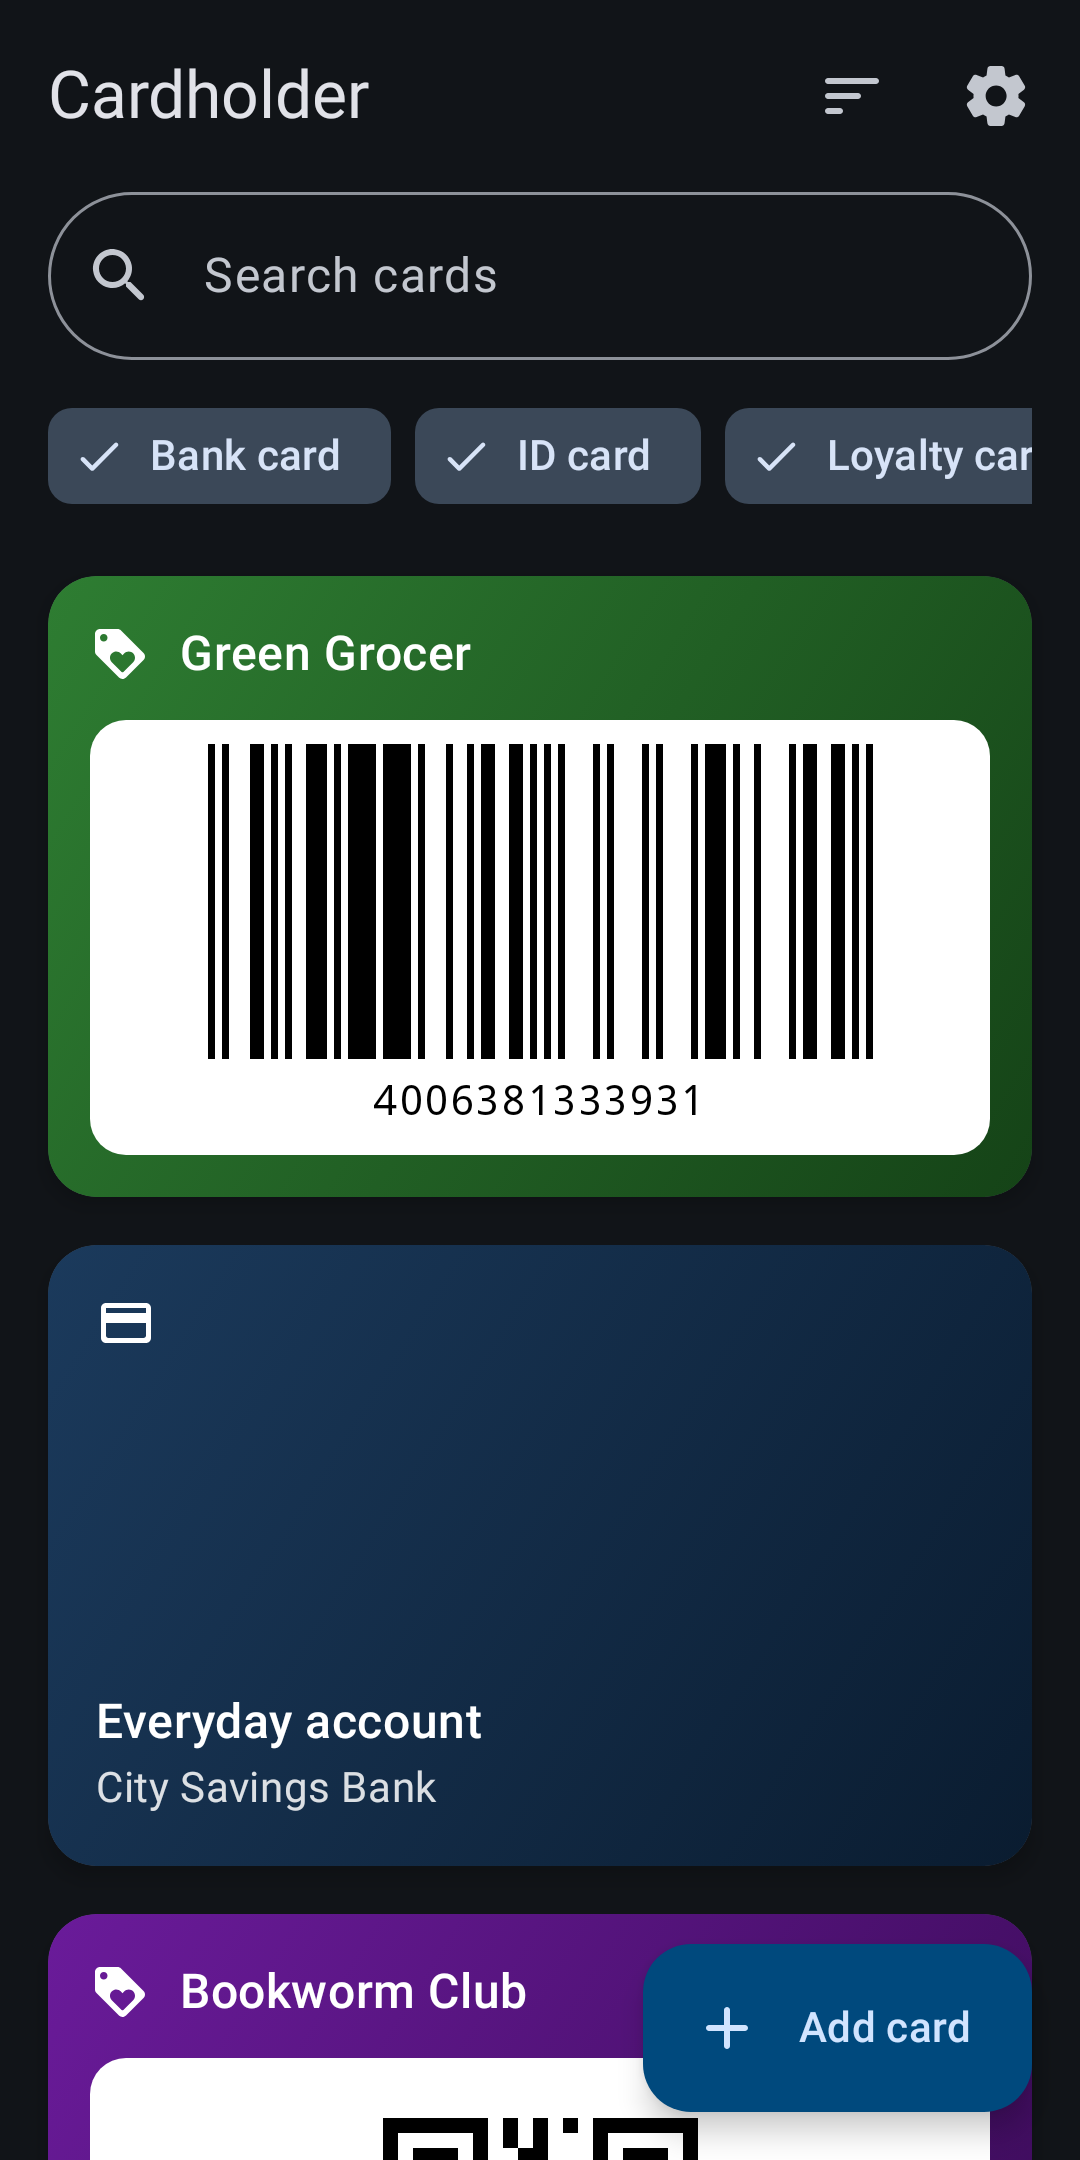
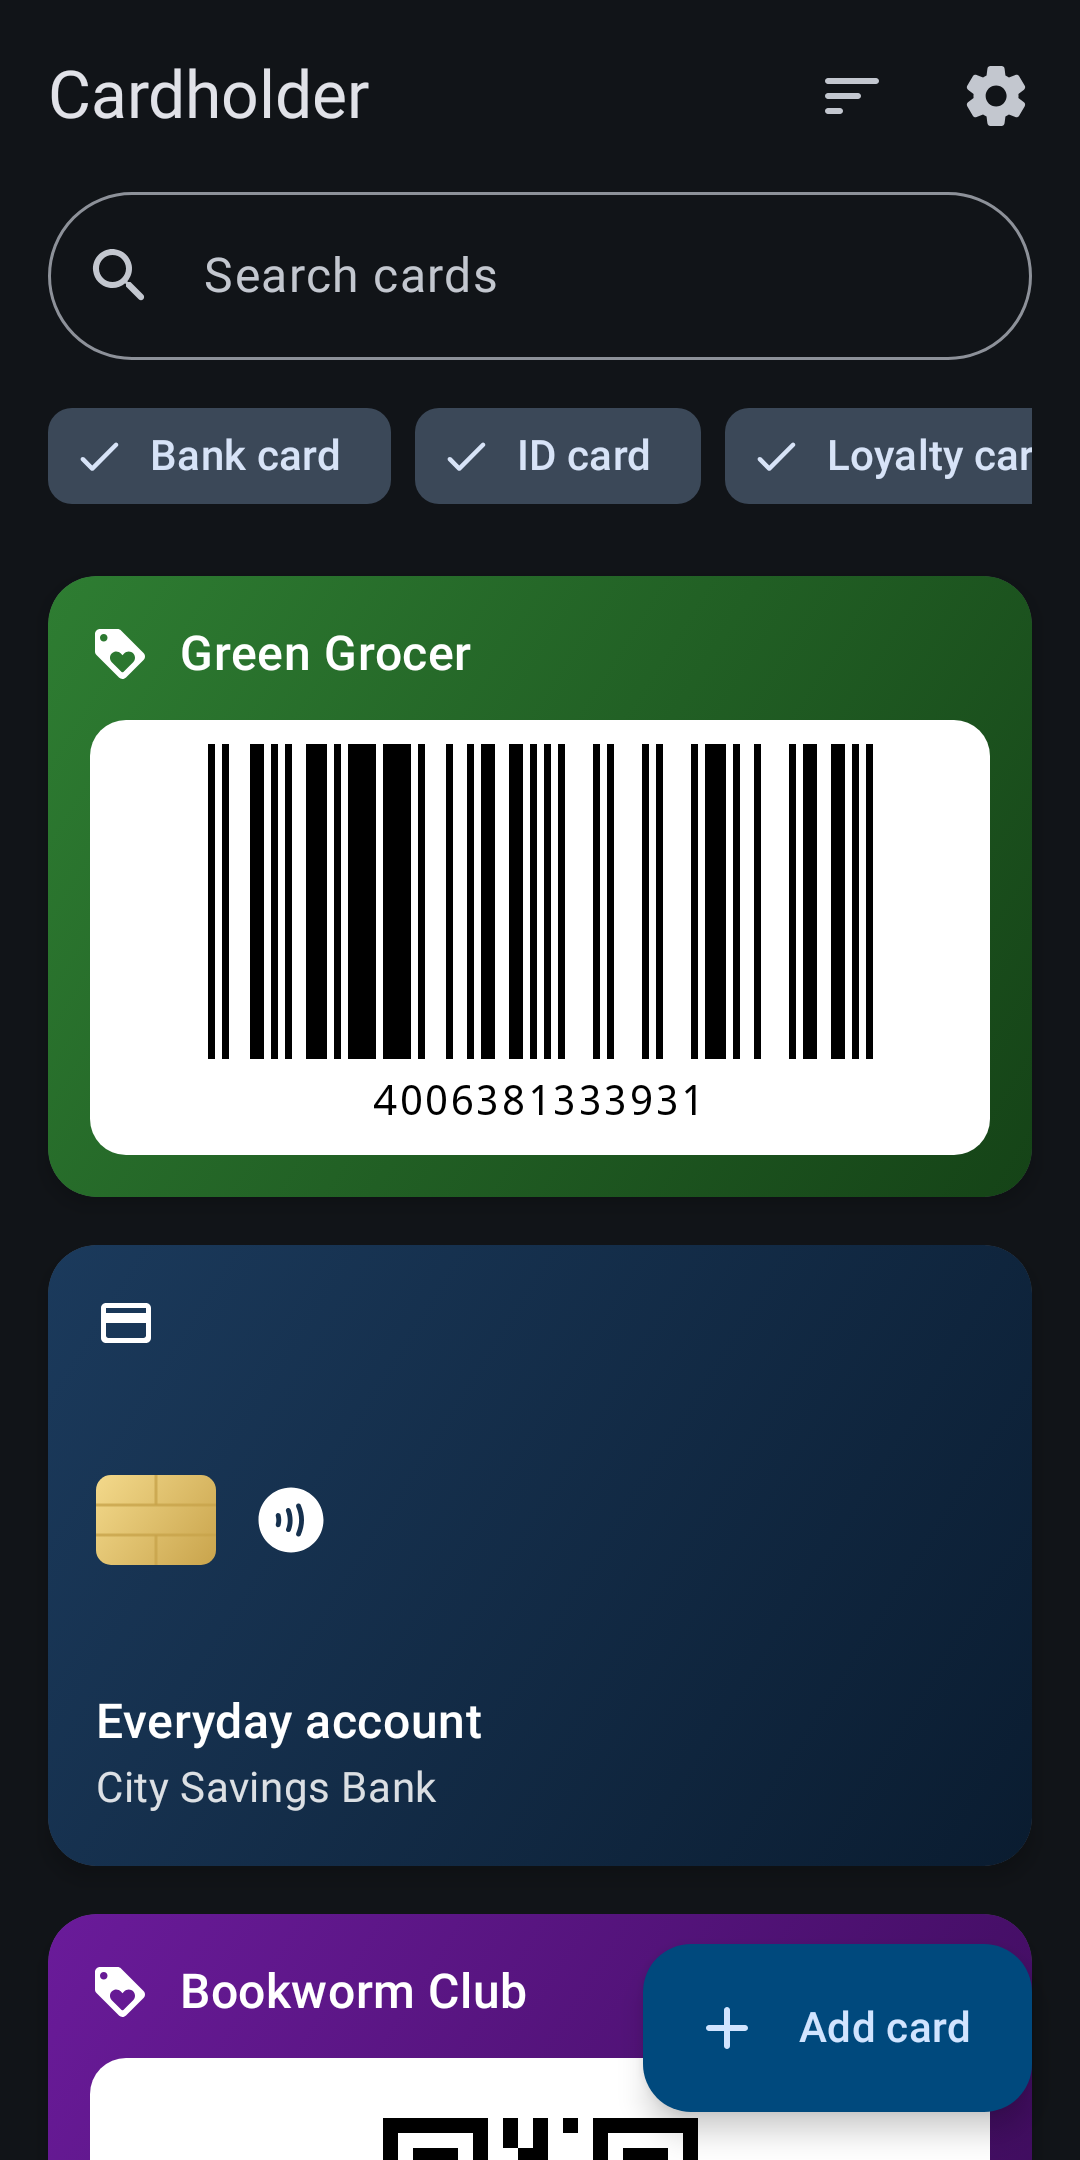
feat(ui): card faces with chip, contactless and flag; layout polish
- Generated bank card faces show a chip and the contactless symbol, ID
  cards their country's flag; favourites get a star.
- Long card names stay on one line in the top bars.
- "Add card" shrinks to an icon while the list is scrolled, so it doesn't
  cover the codes on the cards.
- Store screenshots re-rendered.

Changed region(s): [[0.0917, 0.6824, 0.2139, 0.7444], [0.2444, 0.6824, 0.3056, 0.7444]]

diff --git a/core/ui/src/main/kotlin/io/github/danyk20/cardholder/core/ui/CardFace.kt b/core/ui/src/main/kotlin/io/github/danyk20/cardholder/core/ui/CardFace.kt
@@ -1,5 +1,6 @@
 package io.github.danyk20.cardholder.core.ui
 
+import androidx.compose.foundation.Canvas
 import androidx.compose.foundation.background
 import androidx.compose.foundation.layout.Arrangement
 import androidx.compose.foundation.layout.Box
@@ -16,6 +17,8 @@ import androidx.compose.material3.Text
 import androidx.compose.runtime.Composable
 import androidx.compose.ui.Alignment
 import androidx.compose.ui.Modifier
+import androidx.compose.ui.geometry.CornerRadius
+import androidx.compose.ui.geometry.Offset
 import androidx.compose.ui.graphics.Brush
 import androidx.compose.ui.graphics.Color
 import androidx.compose.ui.res.stringResource
@@ -25,6 +28,7 @@ import androidx.compose.ui.text.font.FontWeight
 import androidx.compose.ui.text.style.TextOverflow
 import androidx.compose.ui.tooling.preview.Preview
 import androidx.compose.ui.unit.dp
+import androidx.compose.ui.unit.sp
 import io.github.danyk20.cardholder.core.designsystem.component.CardSurface
 import io.github.danyk20.cardholder.core.designsystem.icon.CardholderIcons
 import io.github.danyk20.cardholder.core.designsystem.theme.CardFaceColors
@@ -48,6 +52,9 @@ fun CardFace(
     frontImage: ImageRef? = null,
     logo: ImageRef? = null,
     network: CardNetwork? = null,
+    /** Flag emoji of an ID card's country, shown large on its generated face. */
+    flag: String? = null,
+    isFavourite: Boolean = false,
     onClick: (() -> Unit)? = null,
     onLongClick: (() -> Unit)? = null,
 ) {
@@ -90,7 +97,23 @@ fun CardFace(
                     )
                 }
                 Box(Modifier.weight(1f))
+                if (isFavourite) {
+                    Icon(
+                        CardholderIcons.Favourite,
+                        contentDescription = null,
+                        tint = contentColor,
+                        modifier = Modifier.padding(end = 8.dp).size(18.dp),
+                    )
+                }
                 if (isLocked) LockBadge()
+            }
+            // Generated faces get the features of the real card, so they don't look empty.
+            if (!showPhoto) {
+                when (type) {
+                    CardType.BANK -> BankCardFeatures(contentColor)
+                    CardType.ID -> flag?.let { Text(it, fontSize = FLAG_SIZE) }
+                    CardType.LOYALTY -> Unit
+                }
             }
             Row(verticalAlignment = Alignment.Bottom) {
                 Column(Modifier.weight(1f)) {
@@ -117,6 +140,29 @@ fun CardFace(
         }
     }
 }
+
+/** A chip and the contactless symbol, drawn like on a real payment card. */
+@Composable
+private fun BankCardFeatures(contentColor: Color) {
+    Row(verticalAlignment = Alignment.CenterVertically, horizontalArrangement = Arrangement.spacedBy(12.dp)) {
+        Canvas(Modifier.size(width = 40.dp, height = 30.dp)) {
+            val corner = CornerRadius(5.dp.toPx())
+            drawRoundRect(brush = Brush.linearGradient(listOf(ChipLight, ChipDark)), cornerRadius = corner)
+            val line = 1.dp.toPx()
+            val lineColor = ChipDark.copy(alpha = 0.8f)
+            // The contact pads of an EMV chip.
+            drawLine(lineColor, Offset(0f, size.height / 3), Offset(size.width, size.height / 3), line)
+            drawLine(lineColor, Offset(0f, size.height * 2 / 3), Offset(size.width, size.height * 2 / 3), line)
+            drawLine(lineColor, Offset(size.width / 2, 0f), Offset(size.width / 2, size.height / 3), line)
+            drawLine(lineColor, Offset(size.width / 2, size.height * 2 / 3), Offset(size.width / 2, size.height), line)
+        }
+        Icon(CardholderIcons.Nfc, contentDescription = null, tint = contentColor, modifier = Modifier.size(26.dp))
+    }
+}
+
+private val ChipLight = Color(0xFFF3D98B)
+private val ChipDark = Color(0xFFC9A44C)
+private val FLAG_SIZE = 44.sp
 
 @Composable
 private fun LockBadge() {

diff --git a/feature/cardlist/src/main/kotlin/io/github/danyk20/cardholder/feature/cardlist/CardListScreen.kt b/feature/cardlist/src/main/kotlin/io/github/danyk20/cardholder/feature/cardlist/CardListScreen.kt
@@ -13,8 +13,10 @@ import androidx.compose.foundation.layout.padding
 import androidx.compose.foundation.layout.size
 import androidx.compose.foundation.lazy.grid.GridCells
 import androidx.compose.foundation.lazy.grid.GridItemSpan
+import androidx.compose.foundation.lazy.grid.LazyGridState
 import androidx.compose.foundation.lazy.grid.LazyVerticalGrid
 import androidx.compose.foundation.lazy.grid.items
+import androidx.compose.foundation.lazy.grid.rememberLazyGridState
 import androidx.compose.foundation.rememberScrollState
 import androidx.compose.foundation.text.KeyboardOptions
 import androidx.compose.material3.CircularProgressIndicator
@@ -102,6 +104,7 @@ internal fun CardListScreen(
     onOpenSettings: () -> Unit,
 ) {
     val scrollBehavior = TopAppBarDefaults.pinnedScrollBehavior()
+    val gridState = rememberLazyGridState()
     Scaffold(
         modifier = Modifier.nestedScroll(scrollBehavior.nestedScrollConnection),
         topBar = {
@@ -119,10 +122,12 @@ internal fun CardListScreen(
             )
         },
         floatingActionButton = {
+            // Shrinks to an icon while scrolled, so it doesn't cover the codes on the cards.
             ExtendedFloatingActionButton(
-                onClick = onAddCard,
-                icon = { Icon(CardholderIcons.Add, contentDescription = null) },
                 text = { Text(stringResource(R.string.cardlist_add_card)) },
+                icon = { Icon(CardholderIcons.Add, contentDescription = stringResource(R.string.cardlist_add_card)) },
+                onClick = onAddCard,
+                expanded = !gridState.canScrollBackward,
             )
         },
     ) { padding ->
@@ -138,6 +143,7 @@ internal fun CardListScreen(
             is CardListUiState.Success -> if (uiState.hasAnyCards) {
                 CardGrid(
                     state = uiState,
+                    gridState = gridState,
                     contentPadding = padding,
                     onQueryChange = onQueryChange,
                     onTypeToggled = onTypeToggled,
@@ -154,6 +160,7 @@ internal fun CardListScreen(
 @Composable
 private fun CardGrid(
     state: CardListUiState.Success,
+    gridState: LazyGridState,
     contentPadding: PaddingValues,
     onQueryChange: (String) -> Unit,
     onTypeToggled: (CardType) -> Unit,
@@ -162,6 +169,7 @@ private fun CardGrid(
 ) {
     LazyVerticalGrid(
         columns = GridCells.Adaptive(minSize = 300.dp),
+        state = gridState,
         contentPadding = PaddingValues(
             start = 16.dp,
             end = 16.dp,

diff --git a/feature/barcodefullscreen/src/main/kotlin/io/github/danyk20/cardholder/feature/barcodefullscreen/BarcodeScreen.kt b/feature/barcodefullscreen/src/main/kotlin/io/github/danyk20/cardholder/feature/barcodefullscreen/BarcodeScreen.kt
@@ -27,6 +27,7 @@ import androidx.compose.ui.graphics.Color
 import androidx.compose.ui.res.stringResource
 import androidx.compose.ui.text.font.FontFamily
 import androidx.compose.ui.text.style.TextAlign
+import androidx.compose.ui.text.style.TextOverflow
 import androidx.compose.ui.unit.dp
 import androidx.hilt.lifecycle.viewmodel.compose.hiltViewModel
 import androidx.lifecycle.compose.collectAsStateWithLifecycle
@@ -78,7 +79,13 @@ internal fun BarcodeScreen(
         contentColor = Color.Black,
         topBar = {
             TopAppBar(
-                title = { Text((state as? BarcodeUiState.Ready)?.title.orEmpty()) },
+                title = {
+                    Text(
+                        (state as? BarcodeUiState.Ready)?.title.orEmpty(),
+                        maxLines = 1,
+                        overflow = TextOverflow.Ellipsis,
+                    )
+                },
                 navigationIcon = {
                     IconButton(onClick = onClose) {
                         Icon(CardholderIcons.Close, contentDescription = stringResource(R.string.barcode_close))

diff --git a/feature/carddetail/src/main/kotlin/io/github/danyk20/cardholder/feature/carddetail/CardDetailScreen.kt b/feature/carddetail/src/main/kotlin/io/github/danyk20/cardholder/feature/carddetail/CardDetailScreen.kt
@@ -40,6 +40,7 @@ import androidx.compose.ui.Alignment
 import androidx.compose.ui.Modifier
 import androidx.compose.ui.res.stringResource
 import androidx.compose.ui.semantics.Role
+import androidx.compose.ui.text.style.TextOverflow
 import androidx.compose.ui.unit.dp
 import androidx.hilt.lifecycle.viewmodel.compose.hiltViewModel
 import androidx.lifecycle.compose.LifecycleResumeEffect
@@ -137,7 +138,7 @@ internal fun CardDetailScreen(
         snackbarHost = { SnackbarHost(snackbarHostState) },
         topBar = {
             TopAppBar(
-                title = { Text(state.summary?.card?.title.orEmpty()) },
+                title = { Text(state.summary?.card?.title.orEmpty(), maxLines = 1, overflow = TextOverflow.Ellipsis) },
                 navigationIcon = {
                     IconButton(onClick = onBack) {
                         Icon(CardholderIcons.Back, contentDescription = stringResource(UiR.string.action_back))

diff --git a/core/ui/src/main/kotlin/io/github/danyk20/cardholder/core/ui/CardSummary.kt b/core/ui/src/main/kotlin/io/github/danyk20/cardholder/core/ui/CardSummary.kt
@@ -77,6 +77,8 @@ fun CardFace(
         frontImage = card.sides.front,
         logo = card.logo,
         network = (card.info as? CardInfo.Bank)?.network,
+        flag = (card.info as? CardInfo.Id)?.country?.flagEmoji,
+        isFavourite = card.isFavourite,
         modifier = modifier,
         onClick = onClick,
         onLongClick = onLongClick,
